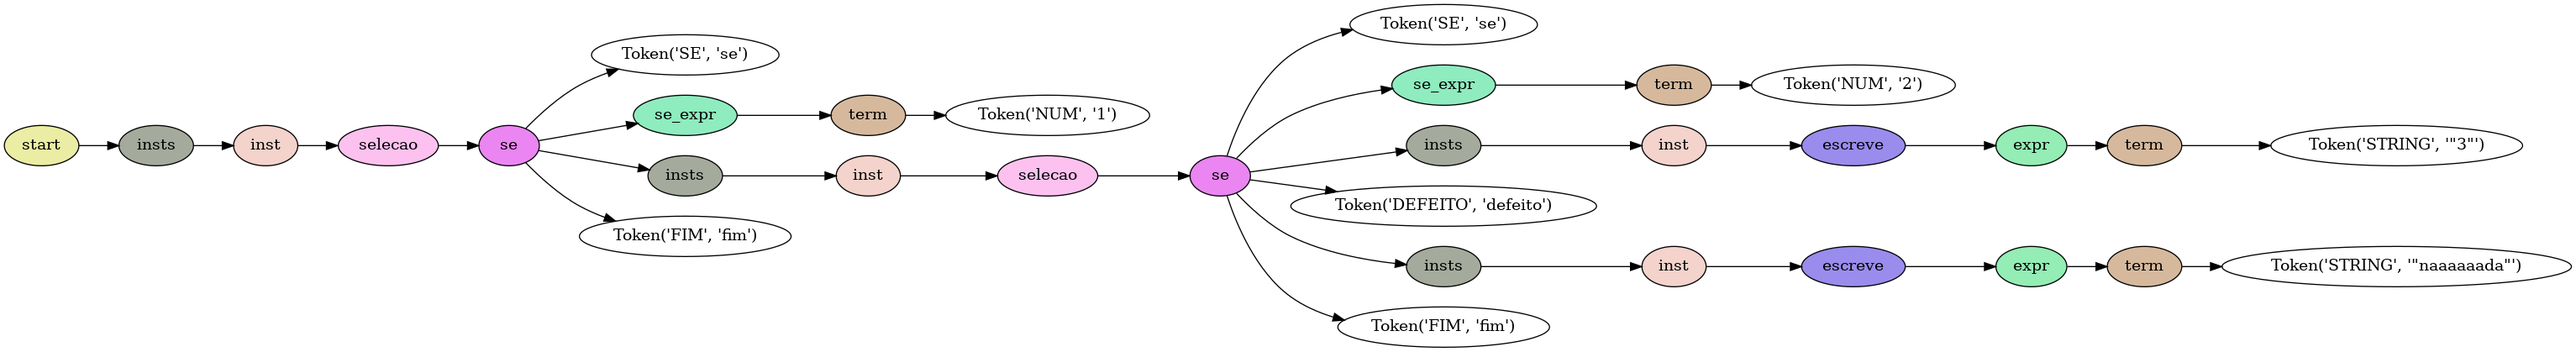
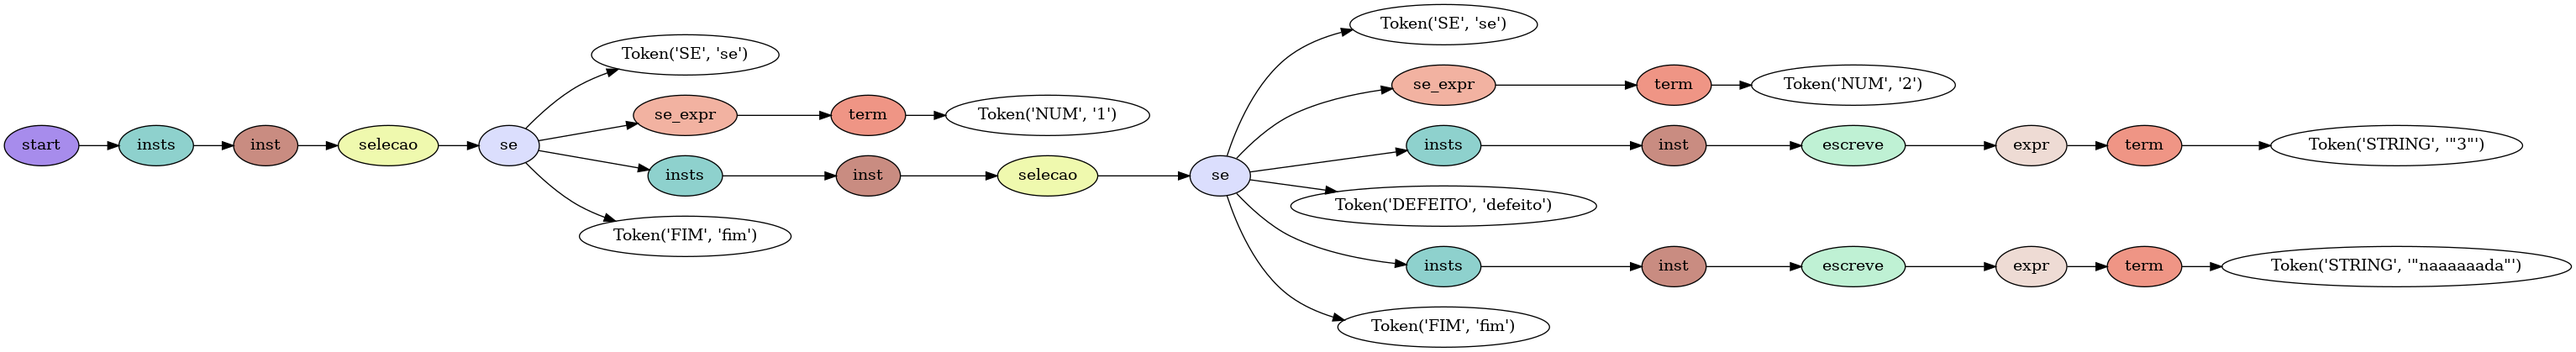
Ifs aninhados adicionados

diff --git a/TP2/pitaoTest.py b/TP2/pitaoTest.py
@@ -1,7 +1,8 @@
 from lark import Lark,Token,Tree, Discard
 from lark.tree import pydot__tree_to_png
 from lark.visitors import Interpreter
-
+import lark.tree as lark_tree
+import lark.lexer as lark_lexer
 
 # FALTA
 # 4- COntar if dentro de if ou se/caso dentro de se/caso
@@ -13,11 +14,11 @@ from lark.visitors import Interpreter
 
 grammar2 = '''
 // Regras Sintaticas - Pitão
-start: (classe | funcao | decls | insts)+
+start: (classe | funcao | decls | inst)+
 
-classe: "classe" ID ACHA (funcao | decls | insts)* FCHA
+classe: "classe" ID ACHA (funcao | decls | inst)* FCHA
 
-funcao: "fun" ID APAR parametros? FPAR ("=>" tipo)? ACHA (funcao | decls | insts)* FCHA
+funcao: "fun" ID APAR parametros? FPAR ("=>" tipo)? ACHA (funcao | decls | inst)* FCHA
 parametros: parametro (VIR parametro)*
 parametro: ID ":" tipo
 
@@ -27,8 +28,7 @@ decl: var ID ":" tipo ("=" expr)?
 var: DEIXA | CONST
 tipo: INT | SET | ARRAY | TUPLO | ESTRINGUE | LISTA
 
-insts: inst+
-inst: atribuicao | chamar | ler | escreve | imprime | selecao | repeticao
+inst: atribuicao | chamar | ler | escreve | imprime | se | repeticao | caso
 
 atribuicao: ID "=" expr
 chamar: ID APAR parametros? FPAR
@@ -36,15 +36,13 @@ ler: "ler" ID
 escreve: "escreve" expr
 imprime: "imprime" expr
 
-selecao: se | caso
-
-se: SE se_expr "entao" insts (SENAO se_expr "entao" insts)* (DEFEITO insts)? FIM
-caso: CORRESPONDE expr "com" (CASO expr "=>" insts ("break")?)+ (DEFEITO "=>" insts)? FIM
+se: SE se_expr "entao" inst+(SENAO se_expr "entao" inst+)* (DEFEITO inst+)? "fim"
+caso: CORRESPONDE expr "com" (CASO expr "=>" inst+ ("break")?)+ (DEFEITO "=>" inst+)? "fim"
 
 repeticao: enq_fazer | repetir_ate
 
-enq_fazer: "enq" se_expr "fazer" insts
-repetir_ate: "fazer" insts "ate" se_expr
+enq_fazer: "enq" se_expr "fazer" inst+
+repetir_ate: "fazer" inst+ "ate" se_expr
 
 expr: term (OP term)*
 se_expr: term (OP term)* (OUTRO term (OP term)*)*
@@ -65,7 +63,6 @@ LISTA: "Lista"
 SE: "se"
 SENAO: "senao"
 DEFEITO: "defeito"
-FIM: "fim"
 CORRESPONDE: "corresponde"
 CASO: "caso"
 OP: "+" | "-" | "*" | "/" | "%" | "^" 
@@ -92,6 +89,9 @@ class MyInterpreter(Interpreter):
         self.estruturas_controlo = 0
         
         self.insideIf = False
+        self.insideIf_acc = []
+        # Este final poderá estar no dicionario (estrutura de dados) que tenhas todas as informacoes
+        self.finalIfs = []
         
         # dic_info = { variáveis: [somaInt, somaSet, somaArray, somaTuplo, somaEstringue, somaLista],
         #              instrucoes : [declaracoes, atribuicoes, leitura, escrita, condicionais, cíclicas],
@@ -110,6 +110,9 @@ class MyInterpreter(Interpreter):
 
         for child in tree.children:
             print(self.visit(child))
+        
+        print("FInal")
+        print(self.finalIfs)
 
         return f"""Ints {self.vars['Int']}
 Set {self.vars['Set']}
@@ -195,12 +198,18 @@ Lista {self.vars['Lista']}
     def tipo(self, tree):
         return tree.children[0].value
 
-    def insts(self, tree):
-        self.visit_children(tree)
-
     def inst(self, tree):
         print("Inst")
-        print(tree.children)
+        if self.insideIf and len(tree.children) == 1 and tree.children[0].data == 'se':
+            self.insideIf = True
+        else:
+            if len(self.insideIf_acc) > 1:
+
+                finalResult = " e ".join(self.insideIf_acc)+":"
+                before = self.insideIf_acc[0] + " , " + "".join([ i  for i in self.insideIf_acc[1:]])
+                self.finalIfs.append(before+" => "+finalResult)
+                self.insideIf_acc = []
+            self.insideIf = False
         self.visit_children(tree)
 
     def atribuicao(self, tree):
@@ -243,37 +252,71 @@ Lista {self.vars['Lista']}
         print("Imprime")
         self.instrucoes['imprime'] += 1
 
-    def selecao(self, tree):
-        print("Selecao")
-        if self.controlo == True:
-            self.estruturas_controlo += 1
-        self.controlo = True
-        self.visit_children(tree)
-        self.instrucoes['condicionais'] += 1
-        self.controlo = False
+    # def selecao(self, tree):
+    #     print("Selecao")
+    #     if self.controlo == True:
+    #         self.estruturas_controlo += 1
+    #     self.controlo = True
+    #     self.visit_children(tree)
+    #     self.instrucoes['condicionais'] += 1
+    #     self.controlo = False
 
     def se(self, tree):
         print("Se")
-        #if self.insideIf:
-        #    # ir aos filhos ver se existe um se com else ou elif
-        #    for child in tree.children:
-        #        if child.data == 'senao' or child.data == 'defeito':
-        #            print("AVISO: Condição Se sem Senao ou Defeito dentro de um Se")
-        #self.insideIf = True
-        self.visit_children(tree)
-        self.insideIf = False
+        if len(tree.children) == 3:
+            self.insideIf_acc.append(self.visit(tree.children[1]))
+            self.insideIf= True
+            self.visit(tree.children[2])
+                
+        # se tiver if e else
+        elif len(tree.children) == 5:
+            if self.insideIf == False:
+                self.insideIf_acc.append(self.visit(tree.children[1]))
+                self.insideIf = True
+                self.visit(tree.children[2])
+
+                self.insideIf_acc = []
+                self.insideIf = False
+                self.visit(tree.children[4])
+            else:
+                self.visit_children(tree)
+
+        # se tiver elif's e/ou else
+        else:
+            # visitar if
+            self.insideIf_acc.append(self.visit(tree.children[1]))
+            self.insideIf = True
+            self.visit(tree.children[2])
+            
+            # visitar elif's, e se existir else
+            for i, child in enumerate(tree.children):
+                if isinstance(child,lark_lexer.Token) and child.type == "SENAO":
+                    self.insideIf_acc.append(self.visit(tree.children[i+1]))
+                    self.insideIf = True
+                    self.visit(tree.children[i+2])
+
+                elif isinstance(child,lark_lexer.Token) and child.type == "DEFEITO":
+                    self.insideIf_acc = []
+                    self.insideIf = False
+                    self.visit(tree.children[i+1])
 
     def se_expr(self, tree):
         print("Se_expr")
         variavel = self.visit_children(tree)[0]
+
+        list_expr = self.visit_children(tree)
+        expressao = [var.value if isinstance(var, lark_lexer.Token) else var for var in list_expr]
+        expressao = " ".join(expressao)
+
         k = []
         for values in reversed(self.dic.values()):
             for lista in values:
                 for key in lista.keys():
                     k.append(key[0])
         if variavel not in k:
-            print("Variável não declarada " + variavel)
-            return True
+            print("Variável não declarada " + variavel )
+        
+        return expressao
 
     def caso(self, tree):
         print("Caso")
@@ -309,6 +352,10 @@ Lista {self.vars['Lista']}
         return eval(expr)
 
     def term(self, tree):
+        return tree.children[0].value
+    
+    def OP(self, tree):
+        print(f"Operador: {tree}")
         return tree.children[0].value
 
 
@@ -384,12 +431,18 @@ fun main() {
     """
 
 ifs = """
-se 1 entao
+deixa x: Int = 5
+se x + 2 entao
     se 2 entao
         escreve "3"
-    defeito
-        escreve "naaaaaada"
     fim
+senao 3 entao   
+    se 4 entao
+        escreve "4"
+    fim
+    escreve "naaaaaada"
+defeito
+    escreve "naaaaaada"
 fim
 """
 
